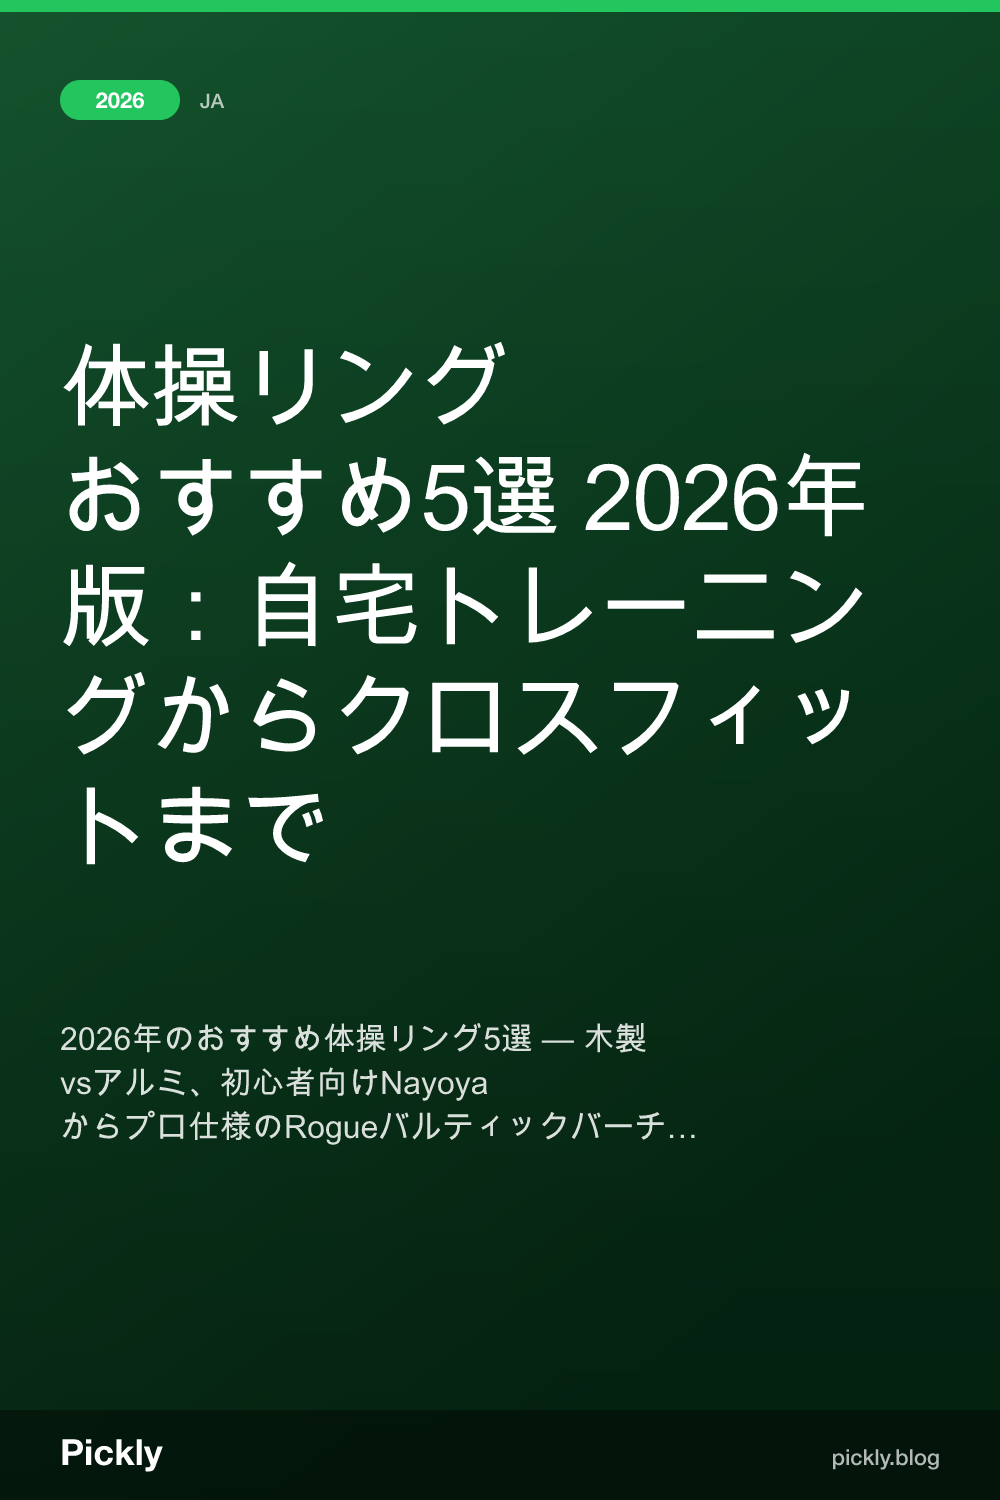
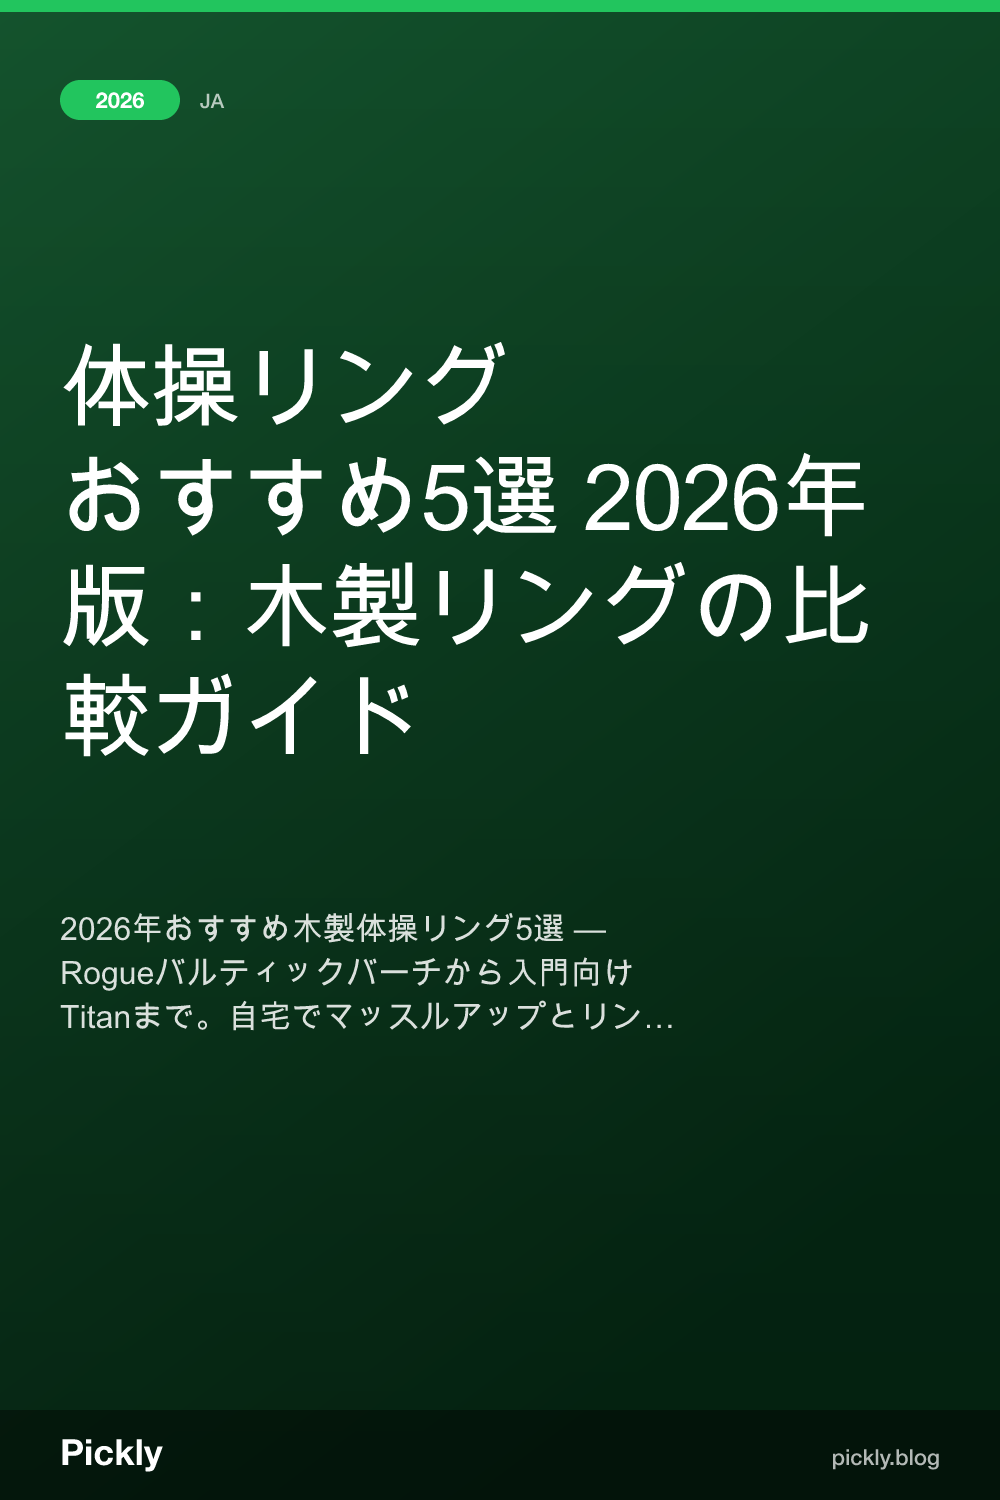
Add article #135: best-gymnastic-rings-2026 (fitness, en+ja)

diff --git a/site/src/lib/affiliates/catalog.ts b/site/src/lib/affiliates/catalog.ts
@@ -7555,6 +7555,77 @@ const RAW_CATALOG: AffiliateOffer[] = [
       { network: "moshimo", productId: "rakuten-titan-fitness-rings", rawUrl: "https://af.moshimo.com/af/c/click?a_id=5538597&p_id=54&pc_id=54&pl_id=616&url=https%3A%2F%2Fsearch.rakuten.co.jp%2Fsearch%2Fmall%2F%E4%BD%93%E6%93%8D%E3%83%AA%E3%83%B3%E3%82%B0%2B%E6%9C%A8%E8%A3%BD%2B%E3%82%B3%E3%82%B9%E3%83%91%2F", markets: ["JP"], approved: true },
     ],
   },
+  // ───────── Fitness / Gymnastic Rings v2 (best-gymnastic-rings-2026) ─────────
+  {
+    id: "rogue-wood-gymnastics-rings",
+    category: "fitness",
+    badge: "🏆",
+    name: { en: "Rogue Wood Gymnastics Rings (1.25\" diameter)", ja: "Rogue ウッド体操リング（直径1.25インチ）" },
+    description: {
+      en: "Competition-grade Baltic birch rings at 1.25\" diameter. 1.5\" nylon straps with stainless steel roller buckles. Used in CrossFit-sanctioned events. 400 lb capacity.",
+      ja: "競技規格のバルティックバーチ製1.25インチ径リング。幅38mmナイロンストラップとステンレス鋼ローラーバックル。クロスフィット公認大会使用実績。耐荷重181kg。",
+    },
+    links: [
+      { network: "amazon-jp", productId: "B00NH0XJWQ", rawUrl: "https://www.amazon.co.jp/dp/B00NH0XJWQ", markets: ["JP"], approved: true },
+      { network: "moshimo", productId: "rakuten-rogue-wood-gymnastics-rings", rawUrl: "https://af.moshimo.com/af/c/click?a_id=5538597&p_id=54&pc_id=54&pl_id=616&url=https%3A%2F%2Fsearch.rakuten.co.jp%2Fsearch%2Fmall%2FRogue%2B%E4%BD%93%E6%93%8D%E3%83%AA%E3%83%B3%E3%82%B0%2B%E6%9C%A8%E8%A3%BD%2F", markets: ["JP"], approved: true },
+    ],
+  },
+  {
+    id: "gorilla-rings-wooden-gym",
+    category: "fitness",
+    badge: "🦍",
+    name: { en: "GORILLA RINGS Wooden Gym Rings", ja: "GORILLA RINGS ウッドジムリング" },
+    description: {
+      en: "1.25\" beech wood rings with 4.9 m numbered straps (5 cm markings) and 250 kg-rated cam buckles. Ships with carry bag. Solid choice for outdoor training.",
+      ja: "1.25インチ・ビーチ材リング。5cm刻み番号付き4.9mストラップと耐荷重250kgカムバックル。キャリーバッグ付属。屋外トレーニングに最適。",
+    },
+    links: [
+      { network: "amazon-jp", productId: "B07GXQX5SR", rawUrl: "https://www.amazon.co.jp/dp/B07GXQX5SR", markets: ["JP"], approved: true },
+      { network: "moshimo", productId: "rakuten-gorilla-rings-wooden-gym", rawUrl: "https://af.moshimo.com/af/c/click?a_id=5538597&p_id=54&pc_id=54&pl_id=616&url=https%3A%2F%2Fsearch.rakuten.co.jp%2Fsearch%2Fmall%2FGORILLA+RINGS%2B%E4%BD%93%E6%93%8D%E3%83%AA%E3%83%B3%E3%82%B0%2F", markets: ["JP"], approved: true },
+    ],
+  },
+  {
+    id: "nayoya-wooden-exercise-rings",
+    category: "fitness",
+    badge: "🟢",
+    name: { en: "Nayoya Wooden Exercise Rings", ja: "Nayoya ウッドエクササイズリング" },
+    description: {
+      en: "1.1\" birch rings — narrower than competition standard, reducing grip load for beginners. 15-foot numbered nylon straps with single-cam buckle. Best entry-level pick.",
+      ja: "1.1インチ・バーチ材リング。競技規格より細く初心者のグリップ負荷を軽減。15フィートの番号付きナイロンストラップとシングルカムバックル。エントリーモデルの最良選択。",
+    },
+    links: [
+      { network: "amazon-jp", productId: "B00M6USAAA", rawUrl: "https://www.amazon.co.jp/dp/B00M6USAAA", markets: ["JP"], approved: true },
+      { network: "moshimo", productId: "rakuten-nayoya-wooden-exercise-rings", rawUrl: "https://af.moshimo.com/af/c/click?a_id=5538597&p_id=54&pc_id=54&pl_id=616&url=https%3A%2F%2Fsearch.rakuten.co.jp%2Fsearch%2Fmall%2FNayoya%2B%E4%BD%93%E6%93%8D%E3%83%AA%E3%83%B3%E3%82%B0%2B%E3%83%90%E3%83%BC%E3%83%81%2F", markets: ["JP"], approved: true },
+    ],
+  },
+  {
+    id: "titan-fitness-wooden-rings",
+    category: "fitness",
+    badge: "💪",
+    name: { en: "Titan Fitness Wooden Gymnastics Rings", ja: "Titan Fitness ウッド体操リング" },
+    description: {
+      en: "1.25\" birch rings at competition diameter with 15-foot adjustable nylon straps and cam buckles. 600 lb capacity. Best value competition-diameter pick.",
+      ja: "競技径1.25インチのバーチ材リング。15フィートのナイロンストラップとカムバックル付き。耐荷重272kg。競技径で最高のコスパ。",
+    },
+    links: [
+      { network: "amazon-jp", productId: "B07BF9BKDG", rawUrl: "https://www.amazon.co.jp/dp/B07BF9BKDG", markets: ["JP"], approved: true },
+      { network: "moshimo", productId: "rakuten-titan-fitness-wooden-rings", rawUrl: "https://af.moshimo.com/af/c/click?a_id=5538597&p_id=54&pc_id=54&pl_id=616&url=https%3A%2F%2Fsearch.rakuten.co.jp%2Fsearch%2Fmall%2FTitan+Fitness%2B%E4%BD%93%E6%93%8D%E3%83%AA%E3%83%B3%E3%82%B0%2B%E6%9C%A8%E8%A3%BD%2F", markets: ["JP"], approved: true },
+    ],
+  },
+  {
+    id: "rep-fitness-wooden-rings",
+    category: "fitness",
+    badge: "🍁",
+    name: { en: "Rep Fitness Wooden Gymnastics Rings", ja: "Rep Fitness ウッド体操リング" },
+    description: {
+      en: "1.25\" maple rings with 15-foot heavy-duty 38mm straps and double-cam buckle rated 600 lbs. Maple grain resists moisture and UV — best for outdoor and high-humidity use.",
+      ja: "1.25インチ・メープル材リング。38mm重厚ストラップ15フィートとダブルカムバックル（耐荷重270kg）。メープル材は湿気とUVに強く屋外・高湿度環境に最適。",
+    },
+    links: [
+      { network: "amazon-jp", productId: "B07DHTQJ7D", rawUrl: "https://www.amazon.co.jp/dp/B07DHTQJ7D", markets: ["JP"], approved: true },
+      { network: "moshimo", productId: "rakuten-rep-fitness-wooden-rings", rawUrl: "https://af.moshimo.com/af/c/click?a_id=5538597&p_id=54&pc_id=54&pl_id=616&url=https%3A%2F%2Fsearch.rakuten.co.jp%2Fsearch%2Fmall%2FRep+Fitness%2B%E4%BD%93%E6%93%8D%E3%83%AA%E3%83%B3%E3%82%B0%2B%E3%83%A1%E3%83%BC%E3%83%97%E3%83%AB%2F", markets: ["JP"], approved: true },
+    ],
+  },
 
   // best-sparkling-water-2026
   {
@@ -8606,6 +8677,72 @@ const RAW_CATALOG: AffiliateOffer[] = [
     links: [
       { network: "amazon-jp", productId: "amazon-jp-wodfitters-pullup-bands", rawUrl: "https://www.amazon.co.jp/dp/B00NIOPNCI", markets: ["JP"], approved: true },
       { network: "moshimo", productId: "rakuten-wodfitters-pullup-bands", rawUrl: "https://af.moshimo.com/af/c/click?a_id=5538597&p_id=54&pc_id=54&pl_id=616&url=https%3A%2F%2Fsearch.rakuten.co.jp%2Fsearch%2Fmall%2FWODFitters+%E3%83%97%E3%83%AB%E3%82%A2%E3%83%83%E3%83%97%E8%A3%9C%E5%8A%A9%E3%83%90%E3%83%B3%E3%83%89%2F", markets: ["JP"], approved: true },
+    ],
+  },
+  // ───────── Home / Reusable Water Bottles (best-reusable-water-bottle-2026) ─────────
+  {
+    id: "hydro-flask-standard-mouth-21oz",
+    category: "home",
+    name: { en: "Hydro Flask Standard Mouth 21oz", ja: "Hydro Flask スタンダードマウス 21oz" },
+    description: {
+      en: "21oz vacuum-insulated 18/8 stainless, TempShield double-wall, 24hr cold / 12hr hot, Sport Cap push-pull valve, 298g empty, 38mm mouth.",
+      ja: "21oz真空断熱18/8ステンレス、TempShield二重壁、冷24時間・温12時間、Sport Capプッシュプルバルブ、空重量298g、38mm口径。",
+    },
+    links: [
+      { network: "amazon-jp", productId: "B07B4RHWK2", rawUrl: "https://www.amazon.co.jp/dp/B07B4RHWK2", markets: ["JP"], approved: true },
+      { network: "moshimo", productId: "rakuten-hydro-flask-standard-mouth-21oz", rawUrl: "https://af.moshimo.com/af/c/click?a_id=5538597&p_id=54&pc_id=54&pl_id=616&url=https%3A%2F%2Fsearch.rakuten.co.jp%2Fsearch%2Fmall%2FHydro+Flask+%E3%82%B9%E3%82%BF%E3%83%B3%E3%83%80%E3%83%BC%E3%83%89%E3%83%9E%E3%82%A6%E3%82%B9+21oz%2F", markets: ["JP"], approved: true },
+    ],
+  },
+  {
+    id: "nalgene-sustain-wide-mouth-32oz",
+    category: "home",
+    name: { en: "Nalgene Sustain Wide Mouth 32oz", ja: "Nalgene サステイン ワイドマウス 32oz" },
+    description: {
+      en: "32oz recycled Tritan Renew (50% recycled content), BPA/BPS-free, dishwasher-safe, 63mm wide mouth, 180g empty.",
+      ja: "32ozリサイクルTritan Renew（50%リサイクル素材）、BPA・BPSフリー、食洗機対応、63mmワイドマウス、空重量180g。",
+    },
+    links: [
+      { network: "amazon-jp", productId: "B07X6G4G5K", rawUrl: "https://www.amazon.co.jp/dp/B07X6G4G5K", markets: ["JP"], approved: true },
+      { network: "moshimo", productId: "rakuten-nalgene-sustain-wide-mouth-32oz", rawUrl: "https://af.moshimo.com/af/c/click?a_id=5538597&p_id=54&pc_id=54&pl_id=616&url=https%3A%2F%2Fsearch.rakuten.co.jp%2Fsearch%2Fmall%2FNalgene+%E3%82%B5%E3%82%B9%E3%83%86%E3%82%A4%E3%83%B3+%E3%83%AF%E3%82%A4%E3%83%89%E3%83%9E%E3%82%A6%E3%82%B9+32oz%2F", markets: ["JP"], approved: true },
+    ],
+  },
+  {
+    id: "camelbak-chute-mag-25oz",
+    category: "home",
+    name: { en: "CamelBak Chute Mag 25oz", ja: "CamelBak チュートマグ 25oz" },
+    description: {
+      en: "25oz vacuum-insulated stainless, Chute Mag magnetic lid, angled spout, 25hr cold / 5hr hot, 340g empty, 46mm mouth.",
+      ja: "25oz真空断熱ステンレス、Chute Magマグネット蓋、斜めスパウト、冷25時間・温5時間、空重量340g、46mm口径。",
+    },
+    links: [
+      { network: "amazon-jp", productId: "B08L5BKQVP", rawUrl: "https://www.amazon.co.jp/dp/B08L5BKQVP", markets: ["JP"], approved: true },
+      { network: "moshimo", productId: "rakuten-camelbak-chute-mag-25oz", rawUrl: "https://af.moshimo.com/af/c/click?a_id=5538597&p_id=54&pc_id=54&pl_id=616&url=https%3A%2F%2Fsearch.rakuten.co.jp%2Fsearch%2Fmall%2FCamelBak+%E3%83%81%E3%83%A5%E3%83%BC%E3%83%88%E3%83%9E%E3%82%B0+%E3%82%B9%E3%83%86%E3%83%B3%E3%83%AC%E3%82%B9%2F", markets: ["JP"], approved: true },
+    ],
+  },
+  {
+    id: "stanley-classic-legendary-36oz",
+    category: "home",
+    name: { en: "Stanley Classic Legendary Bottle 36oz", ja: "スタンレー クラシック 真空ボトル 36oz" },
+    description: {
+      en: "36oz vacuum-insulated full stainless (no powder coat), lid-as-cup design, 27hr cold / 24hr hot, 540g empty, dishwasher-safe body.",
+      ja: "36oz真空断熱フルステンレス（パウダーコートなし）、蓋カップ一体型、冷27時間・温24時間、空重量540g、ステンレスボディ食洗機対応。",
+    },
+    links: [
+      { network: "amazon-jp", productId: "B0000DH48Q", rawUrl: "https://www.amazon.co.jp/dp/B0000DH48Q", markets: ["JP"], approved: true },
+      { network: "moshimo", productId: "rakuten-stanley-classic-legendary-36oz", rawUrl: "https://af.moshimo.com/af/c/click?a_id=5538597&p_id=54&pc_id=54&pl_id=616&url=https%3A%2F%2Fsearch.rakuten.co.jp%2Fsearch%2Fmall%2F%E3%82%B9%E3%82%BF%E3%83%B3%E3%83%AC%E3%83%BC+%E3%82%AF%E3%83%A9%E3%82%B7%E3%83%83%E3%82%AF+%E3%83%9C%E3%83%88%E3%83%AB+1.0L%2F", markets: ["JP"], approved: true },
+    ],
+  },
+  {
+    id: "klean-kanteen-classic-27oz",
+    category: "home",
+    name: { en: "Klean Kanteen Classic 27oz", ja: "クリーンカンティーン クラシック 27oz" },
+    description: {
+      en: "27oz single-wall 18/8 stainless (no insulation), screw cap with carry loop, 215g empty, dishwasher-safe body.",
+      ja: "27ozシングルウォール18/8ステンレス（断熱なし）、キャリーループ付きスクリューキャップ、空重量215g、ボディ食洗機対応。",
+    },
+    links: [
+      { network: "amazon-jp", productId: "B01N5XWXH8", rawUrl: "https://www.amazon.co.jp/dp/B01N5XWXH8", markets: ["JP"], approved: true },
+      { network: "moshimo", productId: "rakuten-klean-kanteen-classic-27oz", rawUrl: "https://af.moshimo.com/af/c/click?a_id=5538597&p_id=54&pc_id=54&pl_id=616&url=https%3A%2F%2Fsearch.rakuten.co.jp%2Fsearch%2Fmall%2F%E3%82%AF%E3%83%AA%E3%83%BC%E3%83%B3%E3%82%AB%E3%83%B3%E3%83%86%E3%82%A3%E3%83%BC%E3%83%B3+%E3%82%AF%E3%83%A9%E3%82%B7%E3%83%83%E3%82%AF+800ml%2F", markets: ["JP"], approved: true },
     ],
   },
 ];

diff --git a/site/src/articles/best-gymnastic-rings-2026/meta.ts b/site/src/articles/best-gymnastic-rings-2026/meta.ts
@@ -3,7 +3,7 @@ export const meta: ArticleMeta = {
   slug: "best-gymnastic-rings-2026",
   type: "comparison",
   category: "fitness",
-  offerIds: ["nayoya-gymnastic-rings", "spri-wooden-rings", "rogue-wood-rings", "elite-fts-gymnastic-rings", "titan-fitness-rings"],
+  offerIds: ["rogue-wood-gymnastics-rings", "gorilla-rings-wooden-gym", "nayoya-wooden-exercise-rings", "titan-fitness-wooden-rings", "rep-fitness-wooden-rings"],
   publishedAt: "2026-05-10",
   updatedAt: "2026-05-10",
   locales: ["en", "ja"],